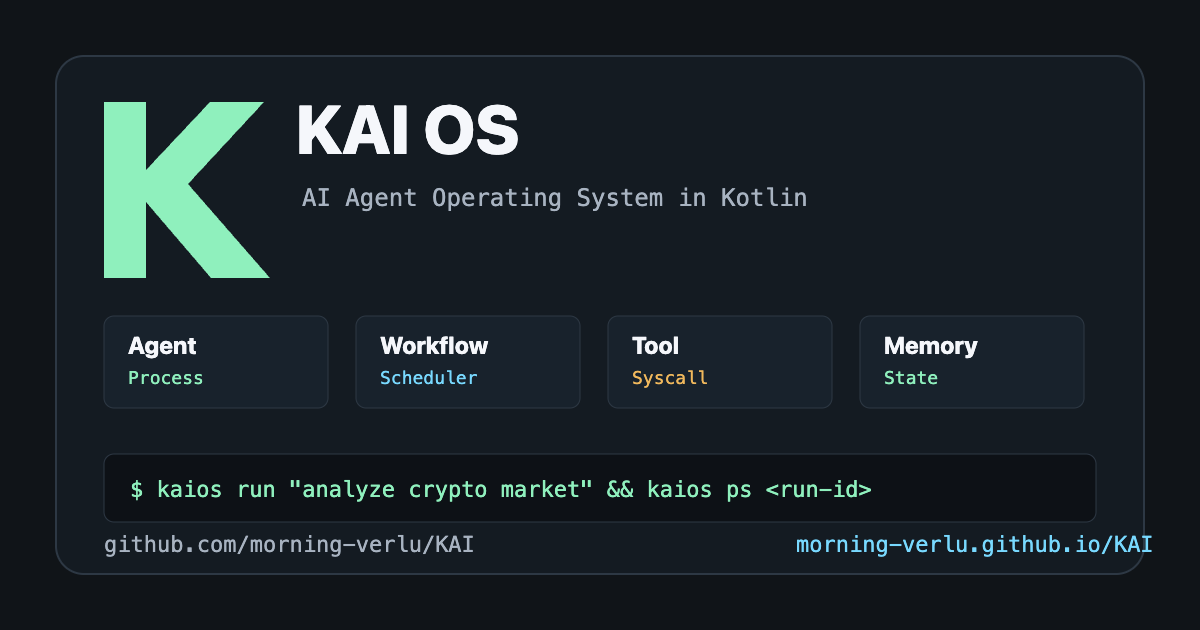
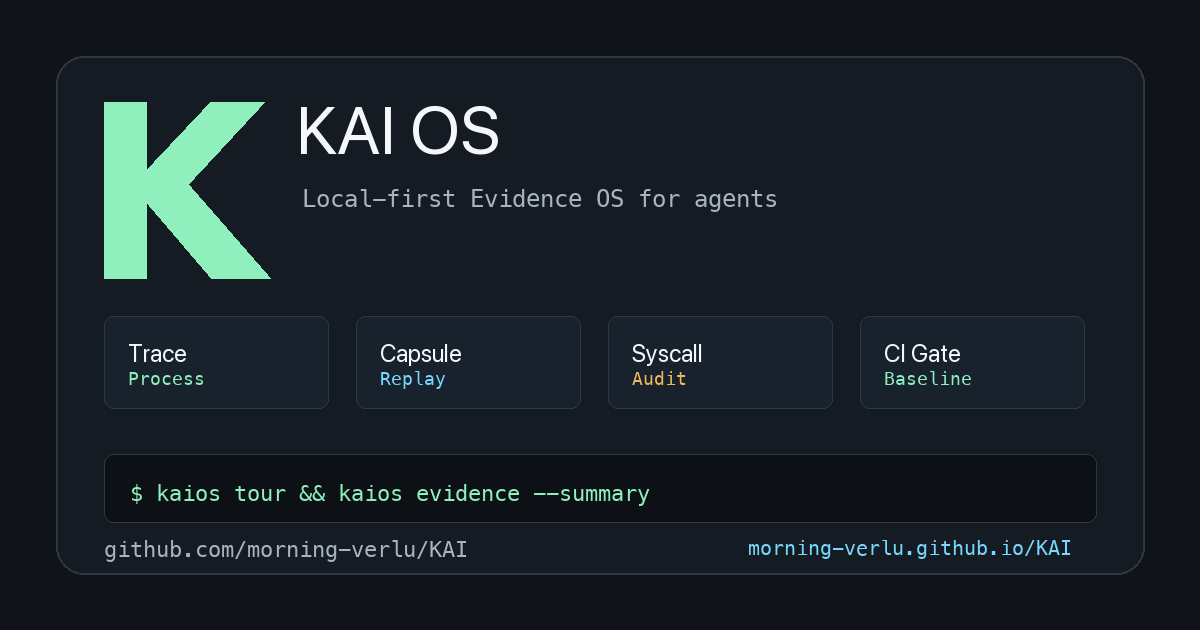
Refresh Evidence OS social card

diff --git a/scripts/render-social-card.py b/scripts/render-social-card.py
@@ -1,0 +1,95 @@
+#!/usr/bin/env python3
+"""Render the KAI OS social preview PNG from the current product message."""
+
+from __future__ import annotations
+
+import argparse
+from pathlib import Path
+
+from PIL import Image, ImageDraw, ImageFont
+
+
+WIDTH = 1200
+HEIGHT = 630
+
+BG = (16, 20, 24)
+PANEL = (20, 27, 34)
+INNER = (24, 34, 44)
+COMMAND_BG = (13, 17, 22)
+LINE = (45, 56, 68)
+TEXT = (245, 247, 251)
+MUTED = (168, 179, 193)
+MINT = (143, 240, 189)
+CYAN = (120, 217, 255)
+AMBER = (240, 184, 92)
+
+
+def font(size: int, bold: bool = False) -> ImageFont.FreeTypeFont | ImageFont.ImageFont:
+    candidates = [
+        "/System/Library/Fonts/SFNS.ttf",
+        "/System/Library/Fonts/Supplemental/Arial Bold.ttf" if bold else "/System/Library/Fonts/Supplemental/Arial.ttf",
+        "/usr/share/fonts/truetype/dejavu/DejaVuSans-Bold.ttf" if bold else "/usr/share/fonts/truetype/dejavu/DejaVuSans.ttf",
+    ]
+    for candidate in candidates:
+        if candidate and Path(candidate).exists():
+            return ImageFont.truetype(candidate, size=size)
+    return ImageFont.load_default()
+
+
+def mono(size: int, bold: bool = False) -> ImageFont.FreeTypeFont | ImageFont.ImageFont:
+    candidates = [
+        "/System/Library/Fonts/Menlo.ttc",
+        "/Library/Fonts/Menlo.ttf",
+        "/usr/share/fonts/truetype/dejavu/DejaVuSansMono-Bold.ttf" if bold else "/usr/share/fonts/truetype/dejavu/DejaVuSansMono.ttf",
+    ]
+    for candidate in candidates:
+        path = Path(candidate)
+        if path.exists():
+            return ImageFont.truetype(str(path), size=size, index=1 if bold and path.suffix == ".ttc" else 0)
+    return ImageFont.load_default()
+
+
+def draw_card(draw: ImageDraw.ImageDraw, x: int, y: int, title: str, subtitle: str, color: tuple[int, int, int]) -> None:
+    draw.rounded_rectangle((x, y, x + 224, y + 92), radius=10, fill=INNER, outline=LINE, width=1)
+    draw.text((x + 24, y + 22), title, font=font(24, bold=True), fill=TEXT)
+    draw.text((x + 24, y + 52), subtitle, font=mono(18), fill=color)
+
+
+def render(out: Path) -> None:
+    image = Image.new("RGB", (WIDTH, HEIGHT), BG)
+    draw = ImageDraw.Draw(image)
+
+    draw.rounded_rectangle((56, 56, 1144, 574), radius=28, fill=PANEL, outline=LINE, width=2)
+    draw.polygon(
+        [(104, 102), (146, 102), (146, 170), (210, 102), (264, 102), (188, 184), (270, 278), (211, 278), (146, 202), (146, 278), (104, 278)],
+        fill=MINT,
+    )
+
+    draw.text((296, 88), "KAI OS", font=font(68, bold=True), fill=TEXT)
+    draw.text((302, 184), "Local-first Evidence OS for agents", font=mono(24), fill=MUTED)
+
+    draw_card(draw, 104, 316, "Trace", "Process", MINT)
+    draw_card(draw, 356, 316, "Capsule", "Replay", CYAN)
+    draw_card(draw, 608, 316, "Syscall", "Audit", AMBER)
+    draw_card(draw, 860, 316, "CI Gate", "Baseline", MINT)
+
+    draw.rounded_rectangle((104, 454, 1096, 522), radius=10, fill=COMMAND_BG, outline=LINE, width=1)
+    draw.text((130, 480), "$ kaios tour && kaios evidence --summary", font=mono(22), fill=MINT)
+
+    draw.text((104, 536), "github.com/morning-verlu/KAI", font=mono(22), fill=MUTED)
+    draw.text((748, 536), "morning-verlu.github.io/KAI", font=mono(20), fill=CYAN)
+
+    out.parent.mkdir(parents=True, exist_ok=True)
+    image.save(out)
+    print(f"wrote {out} ({out.stat().st_size} bytes)")
+
+
+def main() -> None:
+    parser = argparse.ArgumentParser(description=__doc__)
+    parser.add_argument("--out", default="docs/assets/kaios-social-card.png")
+    args = parser.parse_args()
+    render(Path(args.out))
+
+
+if __name__ == "__main__":
+    main()